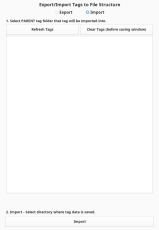
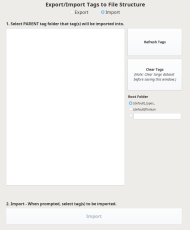
Updated ExportImportTags template and exporternode importernode scripts to allow multi import & export

diff --git a/ignition/script-python/flintiumScripts/Administration/tagfiles/importernode/code.py b/ignition/script-python/flintiumScripts/Administration/tagfiles/importernode/code.py
@@ -13,6 +13,9 @@ class ImporterNode():
 		
 	def getFilePath(self):
 		return os.path.join(self.dirPath, "nodeconfig.json")
+	
+	def getTagPath(self,parentTagPath):
+		return parentTagPath + "/" + self.getName()
 
 	# tag config json without "name" or "tags" items. name and tags information is read from the folder structure.
 	def getNodeConfig(self):
@@ -50,17 +53,39 @@ class ImporterNode():
 
 	# delete any existing tags that current use this nodes tagpath
 	def removeExistingTag(self,parentTagPath):
-		tagPath = parentTagPath + "/" + self.getName()
+		tagPath = self.getTagPath(parentTagPath)
 		system.tag.removeTag(tagPath)
-		
+
+# Import tags into the provided parentTagPath. Prompts to select tag directories to be imported and confirm.	
 def importWithPrompts(parentTagPath):
 	if parentTagPath:
 		parentConfig = system.tag.getConfiguration(parentTagPath)[0]
 		if not str(parentConfig["tagType"]).lower() in ["folder","udttype","udtinstance"]:
 			system.gui.errorBox("Parent tag must be a folder, udtType or udtInstance")
 			return
-		dirPath = flintiumScripts.util.openFolderDialog("Select Tag Directory")
-		if dirPath:
-			node = ImporterNode(dirPath)
-			if system.gui.confirm("Are you sure you want to create or replace the following tag?\n" + parentTagPath + "/" + node.getName()):
-				node.importTag(parentTagPath)
+		dirPaths = openFolderDialog("Select Tag Directory")
+		if dirPaths:
+			nodes=[]
+			confirmMessage = "Are you sure you want to create or replace the following tag(s)?"
+			for dirPath in dirPaths:
+				node = ImporterNode(dirPath)
+				confirmMessage += "\n" + node.getTagPath(parentTagPath)
+				nodes.append(node)
+			if system.gui.confirm(confirmMessage):
+				# Repeat import twice in case imported tags are interdependent (one of the tags contains an instance of another). Avoids the need to sort imports by order of dependency.
+				for _ in range(2):
+					for node in nodes:
+						node.importTag(parentTagPath)
+				system.gui.messageBox("Import Complete")
+
+def openFolderDialog(dialogTitle):
+	from javax.swing import JFileChooser
+	chooser = JFileChooser()
+	chooser.setMultiSelectionEnabled(True);
+	chooser.setFileSelectionMode(JFileChooser.DIRECTORIES_ONLY)
+	chooser.setDialogTitle(dialogTitle)
+	if chooser.showOpenDialog(None) == JFileChooser.APPROVE_OPTION:
+		folderPathStrings = []
+		for folderPath in chooser.getSelectedFiles():
+			folderPathStrings.append(str(folderPath))
+		return folderPathStrings

diff --git a/ignition/script-python/flintiumScripts/Administration/tagfiles/exporternode/code.py b/ignition/script-python/flintiumScripts/Administration/tagfiles/exporternode/code.py
@@ -72,7 +72,7 @@ def exportWithPrompts(tagPaths):
 	if not tagPaths:
 		system.gui.errorBox("Select at least one tag for export.")
 		return
-	parentDirPath = flintiumScripts.util.openFolderDialog("Select Parent Directory")
+	parentDirPath = openFolderDialog("Select Parent Directory")
 	if parentDirPath:
 		nodes = []
 		for tagPath in tagPaths:
@@ -92,9 +92,18 @@ def exportWithPrompts(tagPaths):
 				node.exportFiles()
 			system.gui.messageBox("Export Complete")
 
+# Get lowercase list of node names from list of nodes
 def getNodeNamesLower(nodes):
 	names = []
 	for node in nodes:
 		names.append(node.fullConfig["name"].lower())
 	return names
-	
+
+
+def openFolderDialog(dialogTitle):
+	from javax.swing import JFileChooser
+	chooser = JFileChooser()
+	chooser.setFileSelectionMode(JFileChooser.DIRECTORIES_ONLY)
+	chooser.setDialogTitle(dialogTitle)
+	if chooser.showOpenDialog(None) == JFileChooser.APPROVE_OPTION:
+		return str(chooser.getSelectedFile())

diff --git a/ignition/script-python/flintiumScripts/util/code.py b/ignition/script-python/flintiumScripts/util/code.py
@@ -8,13 +8,5 @@ def getTypeName(instancePath):
 	udtTypeName = udtTypePath.rsplit('/',1)[1]
 	return udtTypeName
 	
-def openFolderDialog(dialogTitle):
-	from javax.swing import JFileChooser
-	chooser = JFileChooser()
-	chooser.setFileSelectionMode(JFileChooser.DIRECTORIES_ONLY)
-	chooser.setDialogTitle(dialogTitle)
-	if chooser.showOpenDialog(None) == JFileChooser.APPROVE_OPTION:
-		return str(chooser.getSelectedFile())
-
 def containsDuplicate(list):
 	return len(list) != len(set(list))
